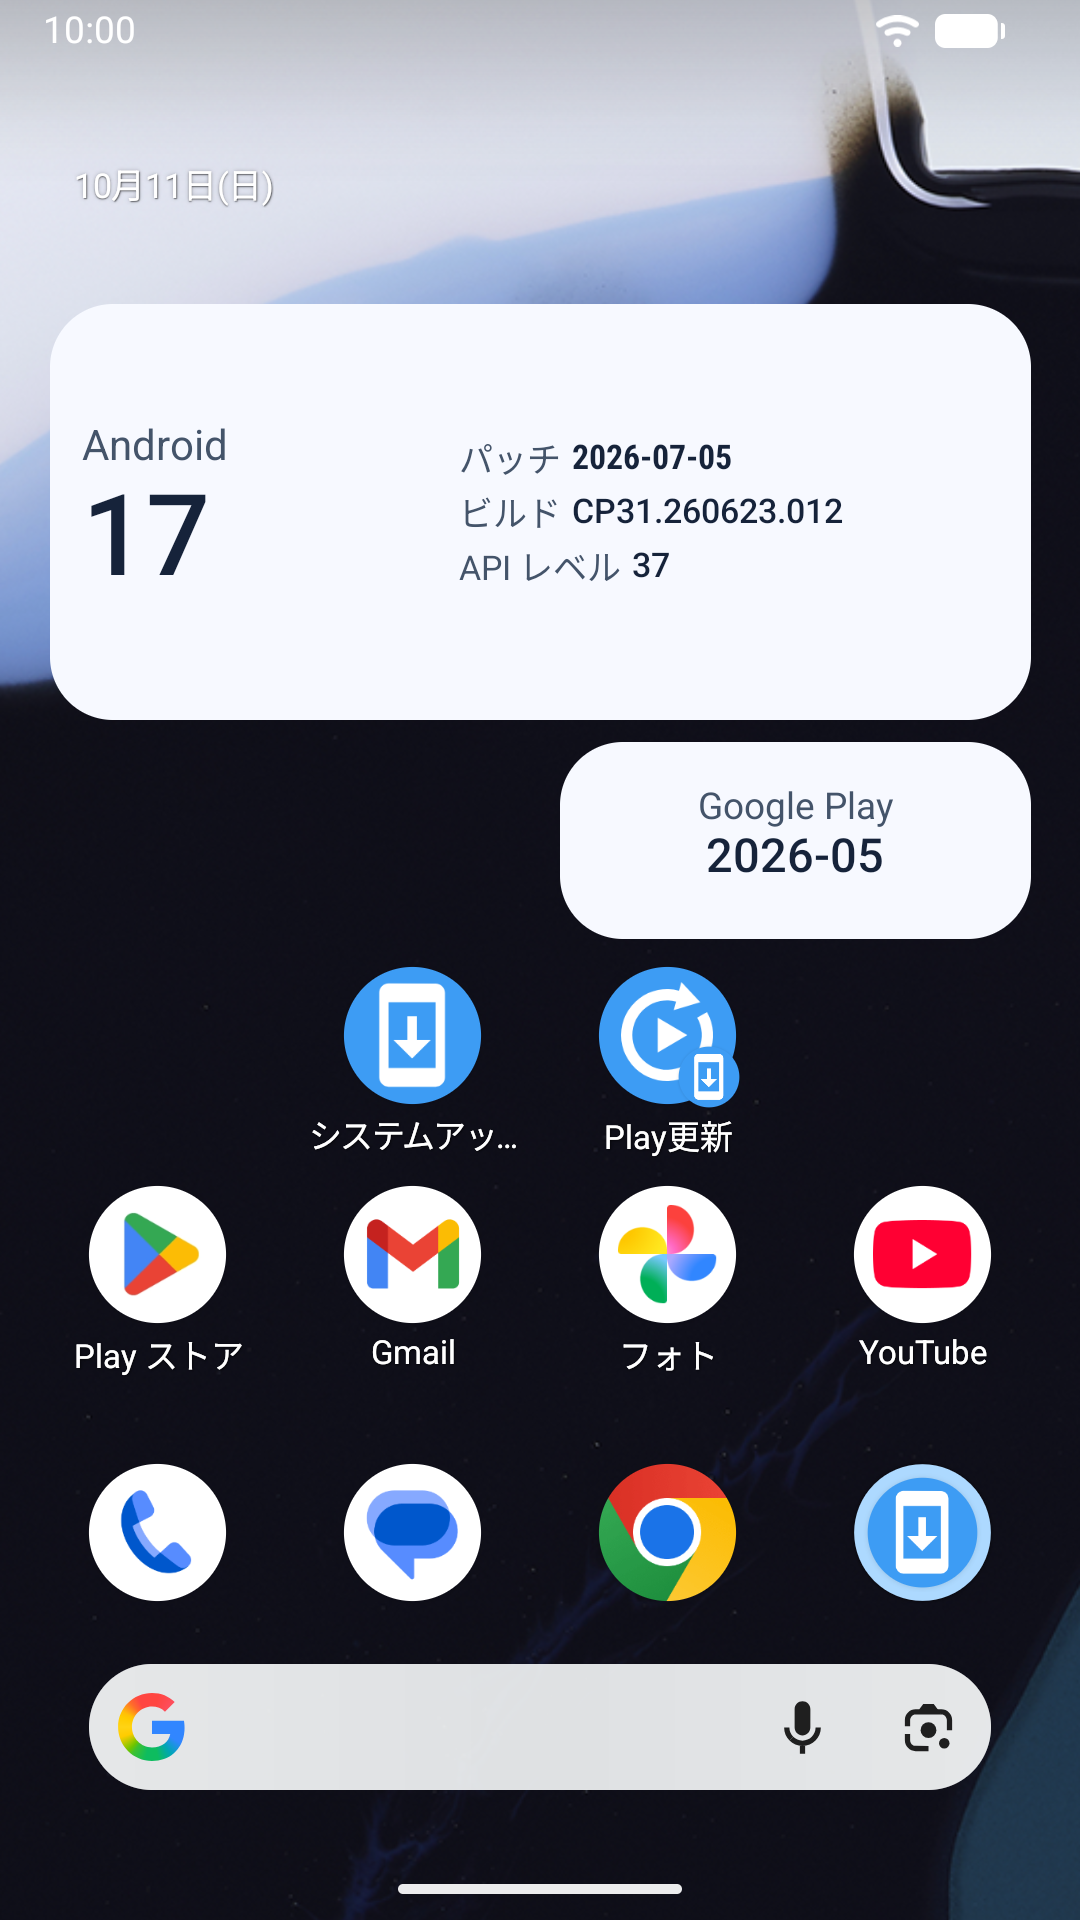
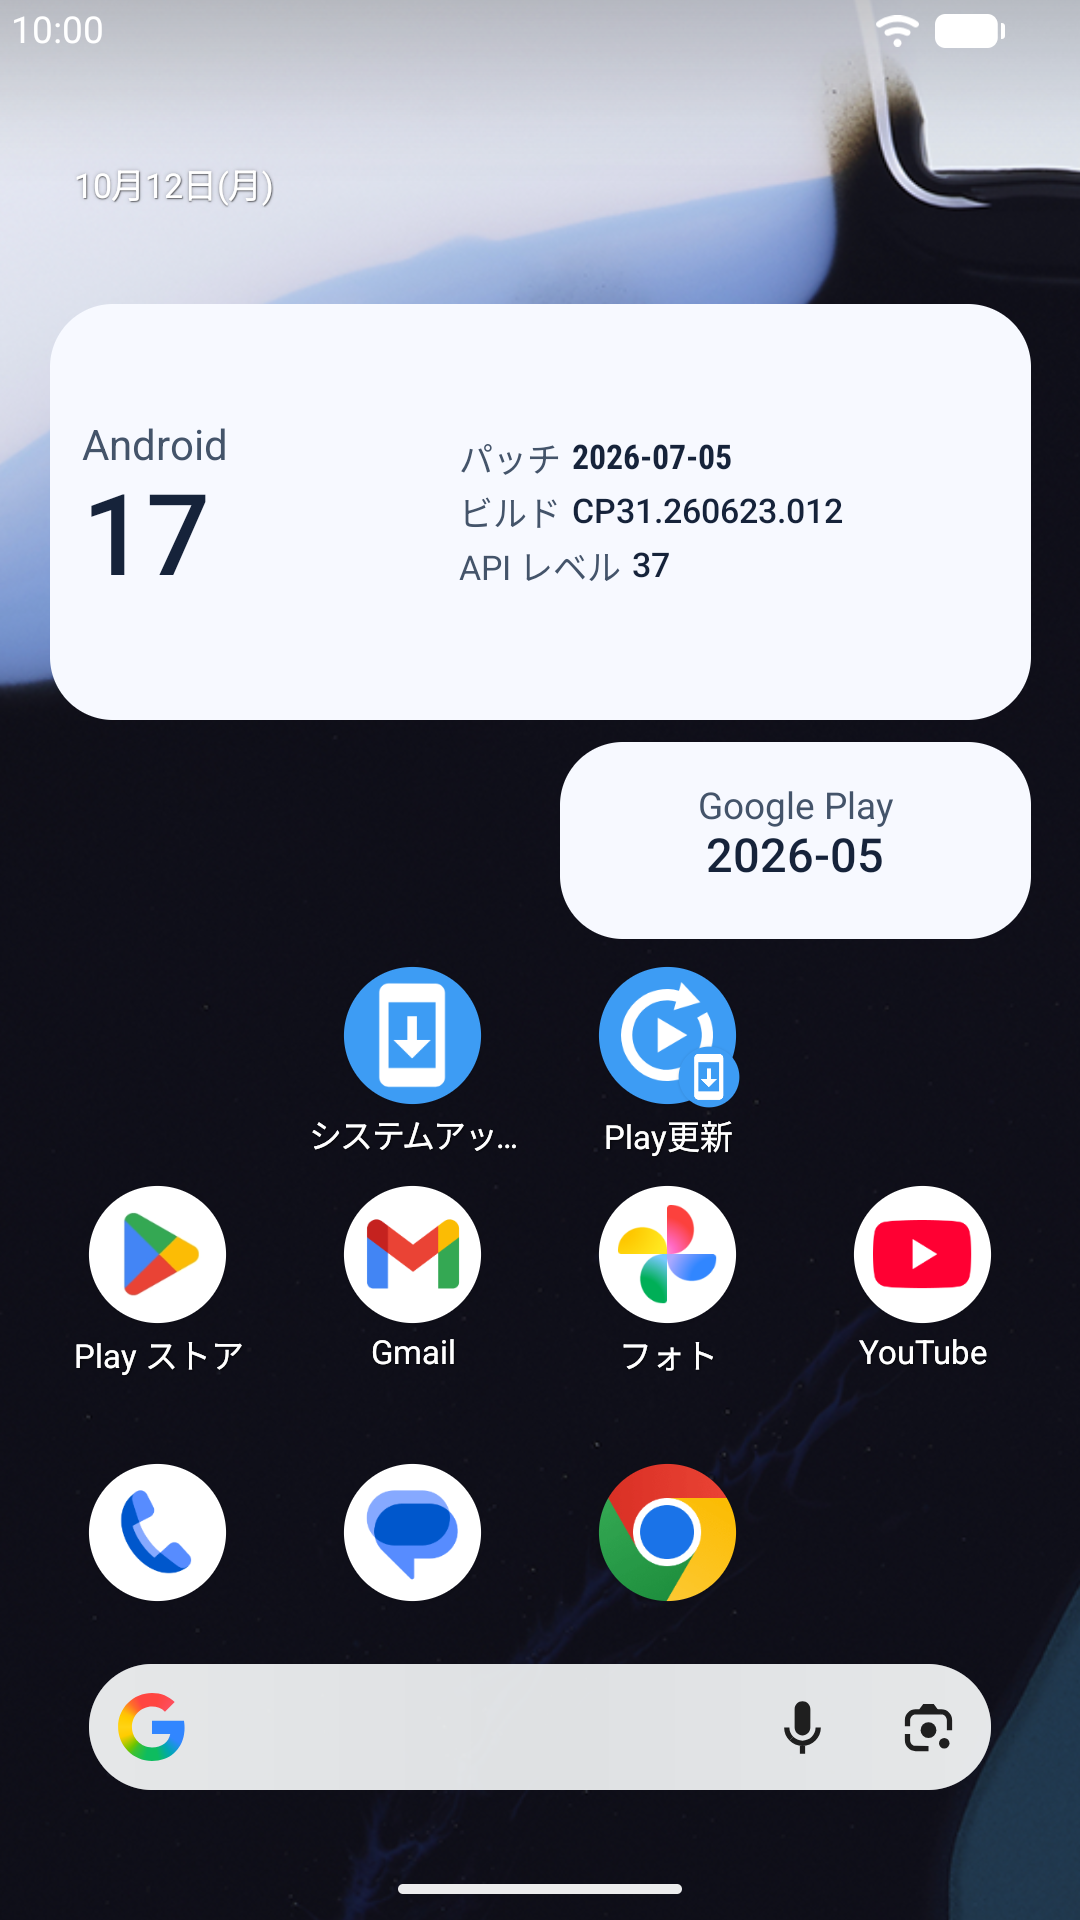
Recapture store screenshots without the dock suggestion
Turn off Pixel Launcher's home-screen suggestions on the capture device so
images 1-3 no longer show a second copy of the app icon in the dock, and
recapture all ten images in one pass so the set stays consistent. The
picker images now show the generated preview, which matches the sample.

Changed region(s): [[0.7944, 0.75, 0.9167, 0.8438], [0.0306, 0.0, 0.1222, 0.0312], [0.2139, 0.0938, 0.2444, 0.125]]

diff --git a/docs/google-play/1.3.0/README.md b/docs/google-play/1.3.0/README.md
@@ -117,9 +117,10 @@ sections instead of adding duplicate tags.
 Upload the versioned PNG files in `screenshots/<locale>/` in the order below under phone screenshots for
 each language. The images are 1080×1920 and show the running app's widgets and
 launcher shortcut. Home screen dates and version values come from the capture
-emulator. The widget picker shows the app's built-in sample preview; on Android 15
-and later, once the app or a widget has run, it shows the device's own values
-instead. These values are examples, not claims that a device is up to date.
+emulator. The widget picker image shows the preview generated from the device's own
+values, which Android 15 and later use once the app or a widget has run; before
+that, and on Android 12–14, the picker shows the app's built-in sample preview.
+These values are examples, not claims that a device is up to date.
 
 | Order | Japanese | English | Content |
 | --- | --- | --- | --- |
@@ -145,10 +146,8 @@ instead. These values are examples, not claims that a device is up to date.
 
 - App: debug build of version 1.3.0 (version code 6), with the widget resources
   prepared in [PR #6](https://github.com/75py/YourSystemIsUpToDate/pull/6).
-  In the second capture pass, English images 1–3 and 5, and Japanese image 5,
-  were recaptured after restoring the launcher label and refining the
-  picker/accessibility resources. Both image 5 files were captured again after
-  clarifying that the Google Play widget opens system update settings.
+  All ten images were captured in one pass on 2026-10-12, after the app had been
+  opened once so the picker shows its generated preview.
 - Device: Pixel 2 profile, Android 17 / API 37 Google Play emulator, Pixel Launcher.
   SDK image: `system-images;android-37.1;google_apis_playstore_ps16k;arm64-v8a`
   revision 9, build `CP31.260623.012`.
@@ -156,10 +155,13 @@ instead. These values are examples, not claims that a device is up to date.
   version `2026-05`. The sample picker preview shows the Android release for the
   device's API level (17 here) and a fixed example Play level, `2026-05`, so it
   matches the device values that replace it after the app has run.
+- In Home settings → Suggestions, turn off suggestions on the Home screen, so the
+  dock shows no suggested app.
 - All images: 1080×1920, default 420 dpi and font scale 1.0. The overview uses
   2×1 widgets; the details image uses a 4×2 Android widget so API level is visible.
 - Switch the system language between Japanese and English (United States).
-- Use System UI demo mode to hide notifications and show a consistent 10:00 clock.
+- Clear notifications, then use System UI demo mode to show a consistent 10:00 clock
+  with Wi-Fi and battery icons only.
   The update screen's last-check time is the device's actual time.
 - Capture with `adb exec-out screencap -p`. Export as 24-bit RGB PNG without
   changing the captured screen content. Image 4 shows the system update screen
